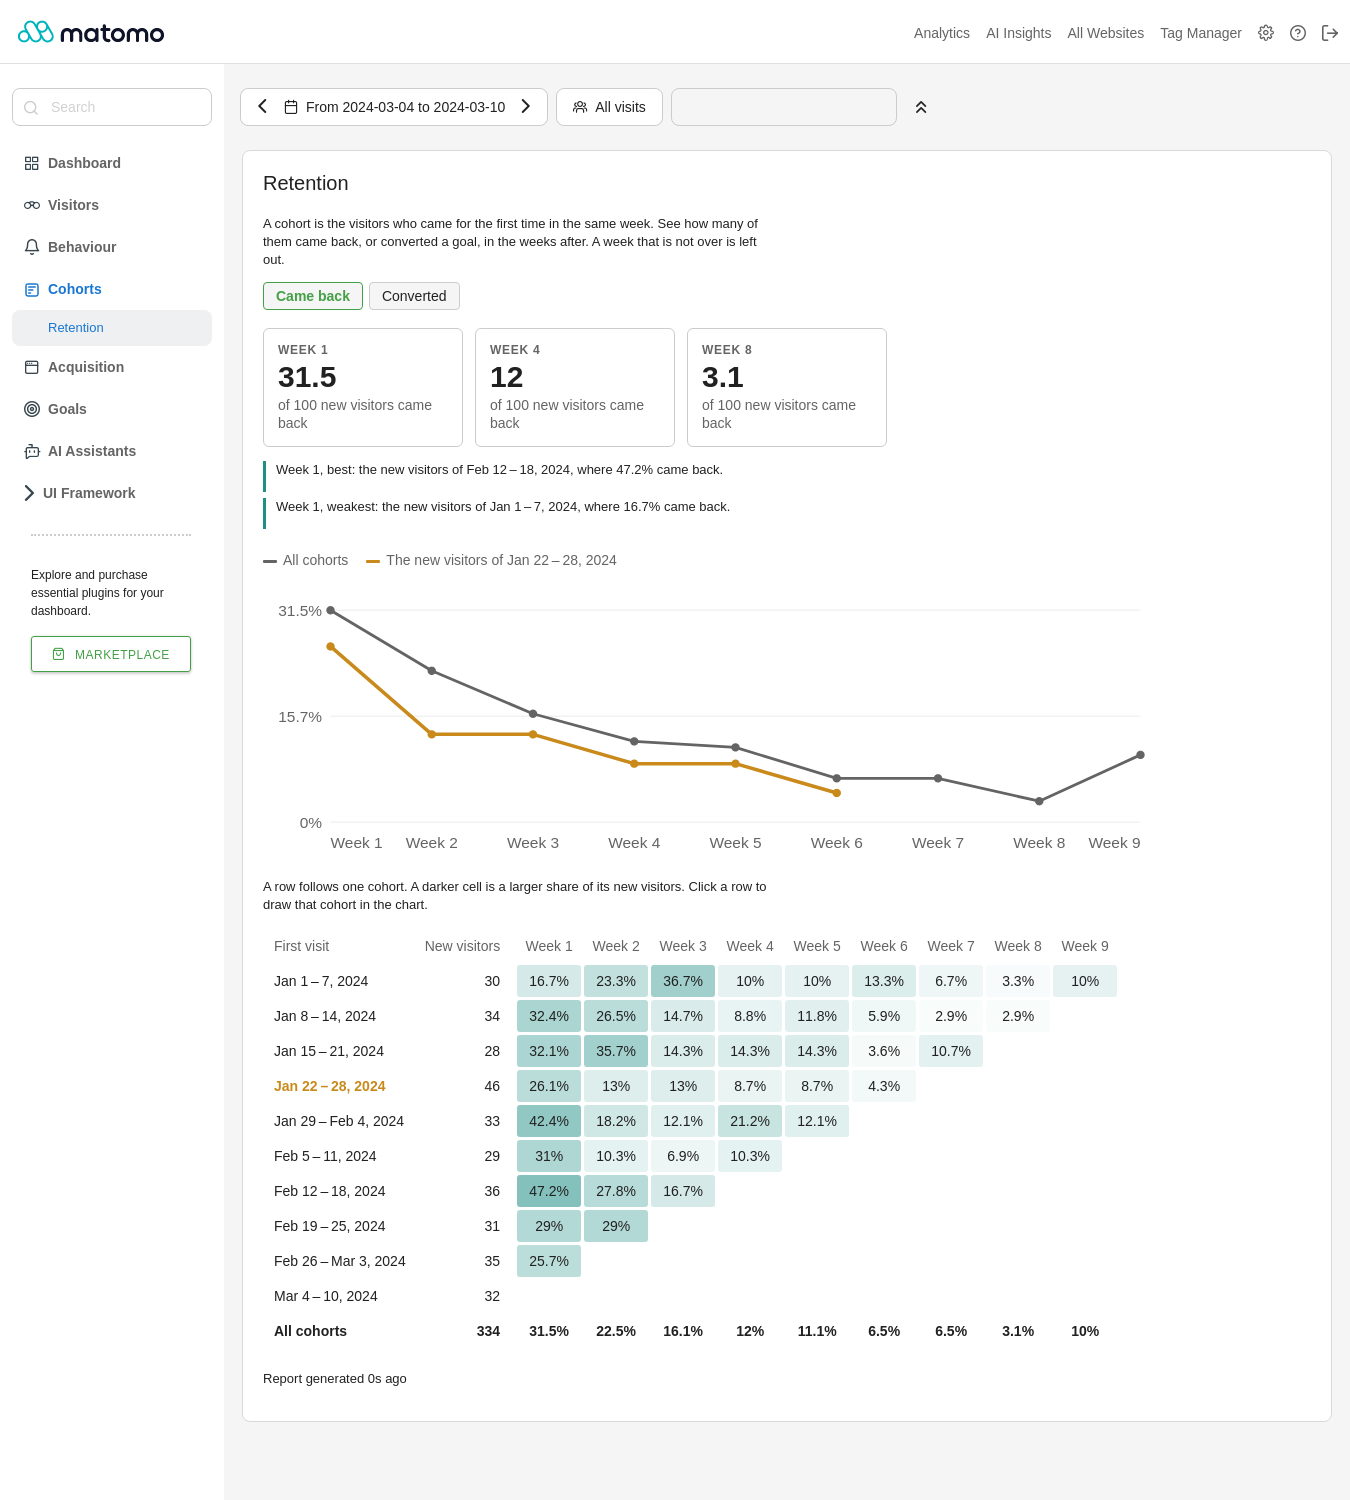
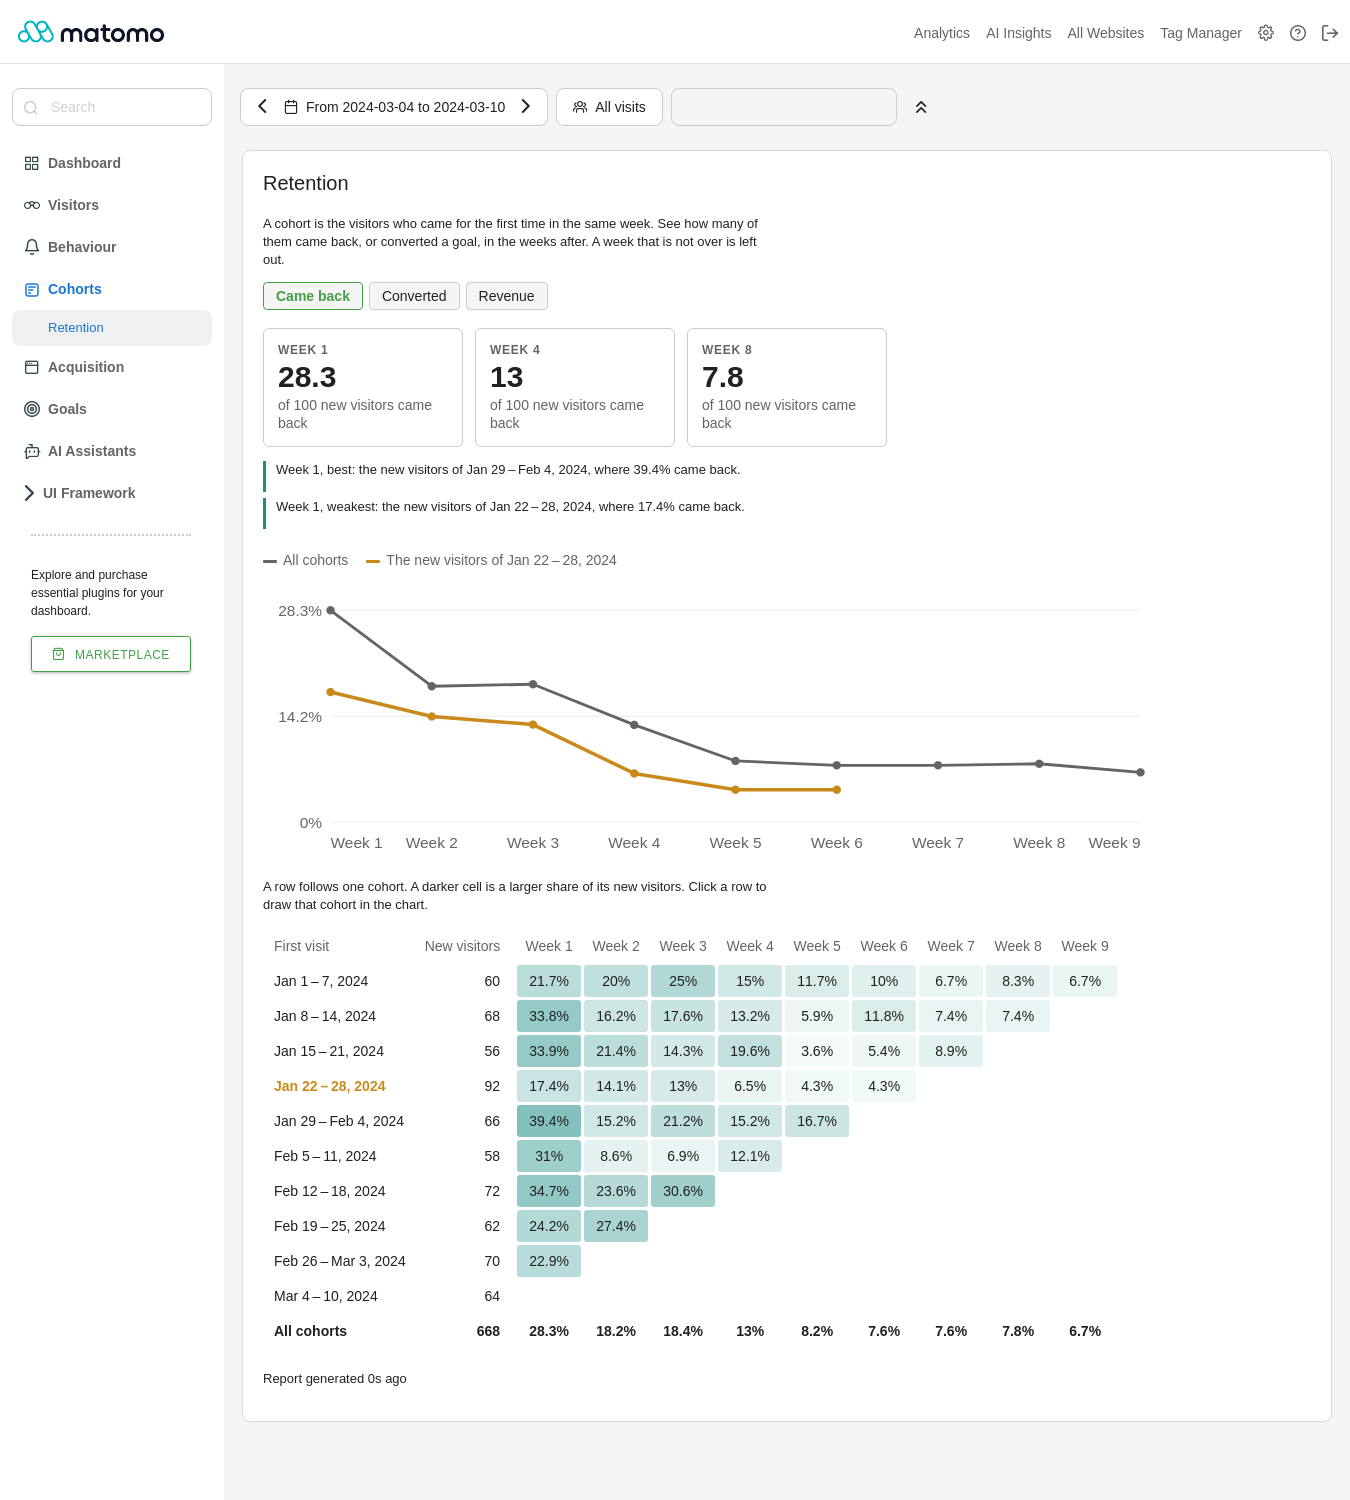
more robust plugin

diff --git a/javascripts/cohortsPage.js b/javascripts/cohortsPage.js
@@ -8,7 +8,7 @@
 (function () {
     var SVG = 'http://www.w3.org/2000/svg';
     // The periods after the first visit that the tiles tell about, for each measure.
-    var TILES = { back: [1, 4, 8], converted: [0, 1, 4] };
+    var TILES = { back: [1, 4, 8], converted: [0, 1, 4], revenue: [0, 4, 8] };
     // The darkest a cell of the table gets.
     var DARKEST = 0.55;
     // Best and weakest are told when at least this many cohorts can be compared.
@@ -46,11 +46,30 @@
         return root.querySelector('.rebelCohortsMeasure[aria-pressed="true"]').getAttribute('data-measure');
     }
 
+    // A share of new visitors, or revenue for each of them.
+    function show(root, value) {
+        return measure(root) === 'revenue'
+            ? window.CoreHome.NumberFormatter.formatCurrency(value, root.getAttribute('data-currency'), 2)
+            : percent(value);
+    }
+
     // How many of a cohort came back, or converted, a number of periods after their first visit.
+    // For revenue: what the cohort brought in up to and including that period.
     // Null when that period is not over yet.
     function count(root, row, after) {
-        var value = row[(measure(root) === 'back' ? 'nb_returned_' : 'nb_converted_') + after];
-        return value === undefined || !row.nb_visitors ? null : value;
+        var picked = measure(root);
+        if (!row.nb_visitors) {
+            return null;
+        }
+        if (picked === 'revenue') {
+            var revenue = 0;
+            for (var period = 0; period <= after; period++) {
+                revenue += row['revenue_' + period];
+            }
+            return row['revenue_' + after] === undefined ? null : revenue;
+        }
+        var value = row[(picked === 'back' ? 'nb_returned_' : 'nb_converted_') + after];
+        return value === undefined ? null : value;
     }
 
     function share(root, row, after) {
@@ -98,7 +117,8 @@
             }
             var tile = el('div', 'rebelCohortsTile');
             tile.appendChild(el('span', 'rebelCohortsTileWhen', heading(root, after)));
-            tile.appendChild(el('strong', '', number(100 * average(root, rows, after))));
+            var value = average(root, rows, after);
+            tile.appendChild(el('strong', '', measure(root) === 'revenue' ? show(root, value) : number(100 * value)));
             tile.appendChild(el('span', '', texts[measure(root)].tile));
             box.appendChild(tile);
         });
@@ -115,7 +135,7 @@
         }
         [[texts.best, best], [texts.weakest, weakest]].forEach(function (one) {
             say.appendChild(el('p', '', one[0].replace('%1$s', heading(root, list[0])).replace('%2$s', one[1].label)
-                .replace('%3$s', texts[measure(root)].share.replace('%s', percent(share(root, one[1], list[0]))))));
+                .replace('%3$s', texts[measure(root)].share.replace('%s', show(root, share(root, one[1], list[0]))))));
         });
     }
 
@@ -139,7 +159,7 @@
         var chart = svg('svg', { viewBox: '0 0 ' + width + ' ' + height, role: 'img' });
         [0, max / 2.2, max / 1.1].forEach(function (value) {
             chart.appendChild(svg('line', { x1: left, x2: width - right, y1: y(value), y2: y(value), 'class': 'rebelCohortsAxis' }));
-            chart.appendChild(svg('text', { x: left - 6, y: y(value) + 4, 'text-anchor': 'end' }, percent(value)));
+            chart.appendChild(svg('text', { x: left - 6, y: y(value) + 4, 'text-anchor': 'end' }, show(root, value)));
         });
         list.forEach(function (after, index) {
             chart.appendChild(svg('text', { x: x(index), y: height - 6, 'text-anchor': index === 0 ? 'start' : index === list.length - 1 ? 'end' : 'middle' }, state.texts.period.replace('%s', after)));
@@ -148,7 +168,7 @@
             chart.appendChild(svg('polyline', { 'class': line[0], points: line[1].map(function (value, index) { return x(index) + ',' + y(value); }).join(' ') }));
             line[1].forEach(function (value, index) {
                 var dot = svg('circle', { 'class': line[0], cx: x(index), cy: y(value), r: 3 });
-                dot.appendChild(svg('title', {}, heading(root, list[index]) + ': ' + percent(value)));
+                dot.appendChild(svg('title', {}, heading(root, list[index]) + ': ' + show(root, value)));
                 chart.appendChild(dot);
             });
         });
@@ -170,8 +190,9 @@
         var tint = el('span', 'rebelCohortsTint');
         tint.style.opacity = max ? (DARKEST * (value / of) / max).toFixed(3) : 0;
         td.appendChild(tint);
-        td.appendChild(el('span', '', percent(value / of)));
-        td.title = root.rebelCohorts.texts.ofNewVisitors.replace('%1$s', number(value)).replace('%2$s', number(of));
+        td.appendChild(el('span', '', show(root, value / of)));
+        td.title = root.rebelCohorts.texts[measure(root) === 'revenue' ? 'revenueOf' : 'ofNewVisitors']
+            .replace('%1$s', measure(root) === 'revenue' ? show(root, value) : number(value)).replace('%2$s', number(of));
         return td;
     }
 
@@ -221,7 +242,7 @@
         foot.appendChild(el('td', '', state.texts.allCohorts));
         foot.appendChild(el('td', '', number(all)));
         list.forEach(function (after) {
-            foot.appendChild(el('td', '', percent(average(root, rows, after))));
+            foot.appendChild(el('td', '', show(root, average(root, rows, after))));
         });
     }
 
@@ -265,9 +286,10 @@
 
     function load(root) {
         var state = root.rebelCohorts;
-        var isGoal = measure(root) === 'converted';
+        var isGoal = measure(root) !== 'back';
         state.asked++;
         root.querySelector('.rebelCohortsGoalLabel').hidden = !isGoal;
+        root.querySelector('.rebelCohortsRevenueHelp').hidden = measure(root) !== 'revenue';
 
         ask(root, 'getCohorts', isGoal ? { idGoal: root.querySelector('.rebelCohortsGoal').value } : {}, function (rows) {
             state.rows = rows;

diff --git a/tests/UI/RebelCohorts_spec.js b/tests/UI/RebelCohorts_spec.js
@@ -77,6 +77,18 @@ describe('RebelCohorts', function () {
         expect(await texts('.rebelCohortsTile')).to.include('THE FIRST WEEK 20 of 100 new visitors converted');
     });
 
+    it('should show the revenue a cohort has brought in so far for each new visitor', async function () {
+        await page.click('.rebelCohortsMeasure[data-measure="revenue"]');
+        await page.waitForNetworkIdle();
+
+        expect(await cohorts()).to.deep.equal([
+            'Feb 5 – 11, 2024 3 $3.33 $6.67 $6.67',
+            'Feb 12 – 18, 2024 1 $0 $0',
+            'Feb 19 – 25, 2024 1 $0',
+        ]);
+        expect(await texts('.rebelCohortsTile')).to.deep.equal(['THE FIRST WEEK $2 per new visitor so far']);
+    });
+
     it('should tell when the report was generated', async function () {
         expect(await page.evaluate(() => document.querySelector('.rebelCohortsGenerated').textContent)).to.match(/^Report generated /);
     });

diff --git a/Widgets/GetCohorts.php b/Widgets/GetCohorts.php
@@ -60,6 +60,7 @@ class GetCohorts extends Widget
             'period' => $period,
             'help' => Piwik::translate('RebelCohorts_Help' . $unit),
             'goals' => $goals,
+            'currency' => Site::getCurrencySymbolFor($idSite),
             'texts' => [
                 'noData' => Piwik::translate('CoreHome_ThereIsNoDataForThisReport'),
                 'loading' => Piwik::translate('General_LoadingData'),
@@ -70,10 +71,12 @@ class GetCohorts extends Widget
                 'allCohorts' => Piwik::translate('RebelCohorts_AllCohorts'),
                 'newVisitorsOf' => Piwik::translate('RebelCohorts_NewVisitorsOf'),
                 'ofNewVisitors' => Piwik::translate('RebelCohorts_NOfNewVisitors'),
+                'revenueOf' => Piwik::translate('RebelCohorts_RevenueOfNewVisitors'),
                 'best' => Piwik::translate('RebelCohorts_Best'),
                 'weakest' => Piwik::translate('RebelCohorts_Weakest'),
                 'back' => ['tile' => Piwik::translate('RebelCohorts_TileBack'), 'share' => Piwik::translate('RebelCohorts_ShareBack')],
                 'converted' => ['tile' => Piwik::translate('RebelCohorts_TileConverted'), 'share' => Piwik::translate('RebelCohorts_ShareConverted')],
+                'revenue' => ['tile' => Piwik::translate('RebelCohorts_TileRevenue'), 'share' => Piwik::translate('RebelCohorts_ShareRevenue')],
             ],
         ]);
     }

diff --git a/README.md b/README.md
@@ -33,11 +33,13 @@ Pick what to measure at the top:
 - **Came back**: the share of a cohort that visited again in each period after the first.
 - **Converted**: the share that converted the goal you pick, from the period of the first visit on.
   A website with ecommerce also has its orders to pick.
+- **Revenue**: what the cohort has brought in from that goal for each of its new visitors, from
+  the first visit up to and including each period.
 
 The page has three parts:
 
-- How many of 100 new visitors came back or converted, at three points in time, and which cohort
-  was best and weakest.
+- How many of 100 new visitors came back or converted, or the revenue for each new visitor, at
+  three points in time, and which cohort was best and weakest.
 - A chart of how the share falls, for all cohorts as one. Click a row of the table to draw that
   cohort next to it.
 - A table with a row for each cohort and a column for each period after. A darker cell is a

diff --git a/CHANGELOG.md b/CHANGELOG.md
@@ -4,7 +4,7 @@
 
 ### Added
 
-- "Cohorts" in the reporting menu: the visitors who came for the first time in the same day, week or month, and how many of them came back or converted a goal in the periods after.
+- "Cohorts" in the reporting menu: the visitors who came for the first time in the same day, week or month, and how many of them came back or converted a goal in the periods after, and the revenue they have brought in.
 - The page shows it as how many of 100 new visitors came back, as a chart of all cohorts with the cohort you pick next to it, and as a table of every cohort.
 - The page tells when its report was generated.
 - The API method `RebelCohorts.getCohorts`.
